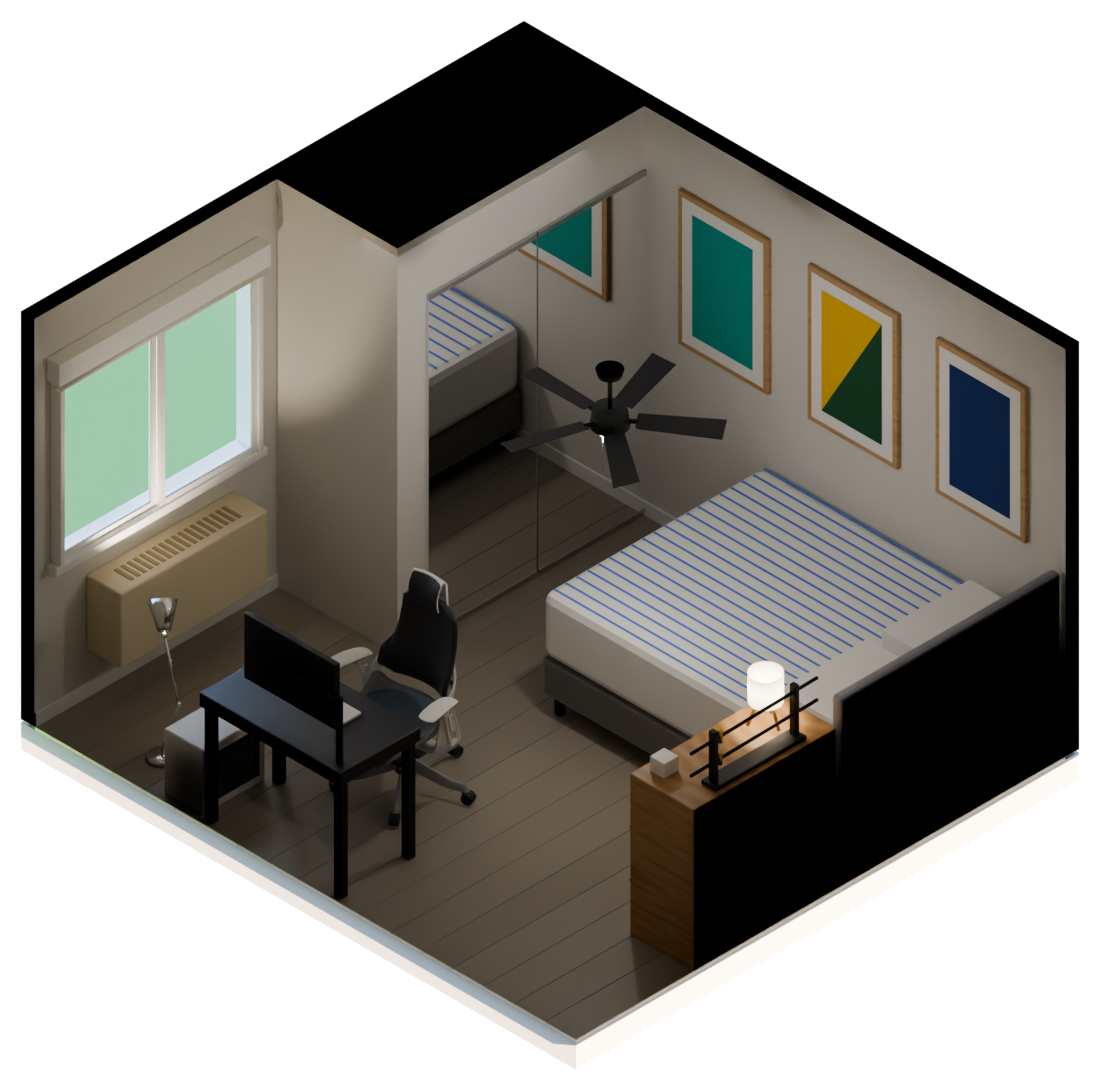
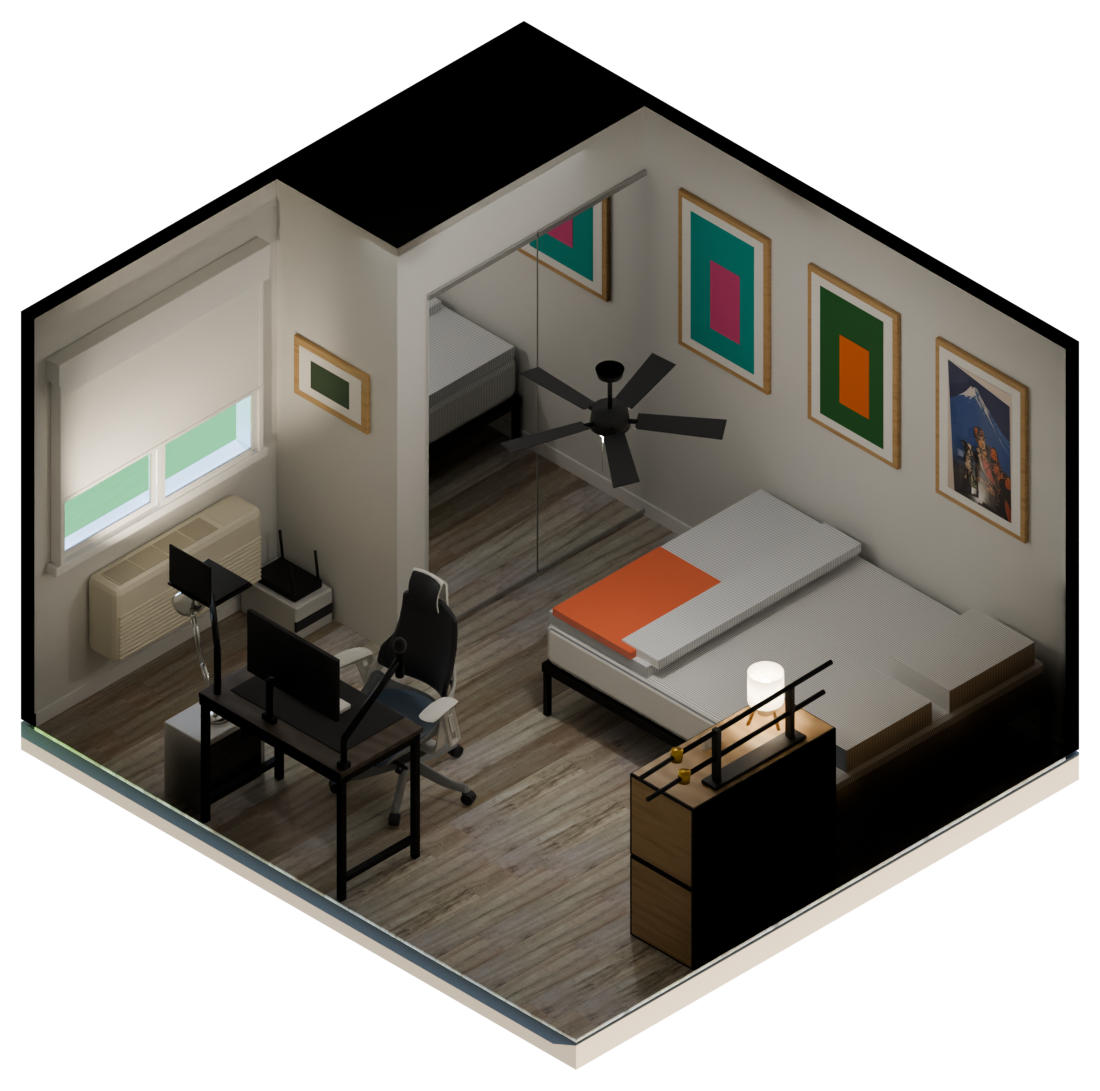
Room Coach render: furniture from Piotr's photos, real floor texture, FORSÅ on the PC

diff --git a/_room/render/build_scene.py b/_room/render/build_scene.py
@@ -35,7 +35,7 @@ BLEND = arg("blend")
 # ---- room constants (core.js) ----
 W, D, DM, NX, H, T = 3.33, 3.685, 2.865, 1.65, 2.4, 0.09
 WX0, WX1, WY0, WY1 = 0.14, 1.46, 0.92, 2.0
-AIM, JOINT = (0.8, 1.46, D), (0.3, 0.68, 3.1)
+AIM, JOINT = (0.8, 1.46, D), (0.27, 0.92, 2.88)  # FORSÅ stands on the PC (photos, 2026-11-17)
 MINI = (1.56, 0.95, 0.27)
 FAN = (1.665, 2.1, 1.435)
 
@@ -127,7 +127,7 @@ def planks(name, base="#a89f93", dark="#8a8275", rough=0.42):
     return m
 
 M = {
-    "wall": add_noise_bump(material("wall", "#e4e1db", 0.92), 80, 0.02),
+    "wall": add_noise_bump(material("wall", "#e7e7e3", 0.92), 80, 0.02),
     "trim": material("trim", "#f4f4f2", 0.35),
     "floor": planks("floor"),
     "desk_top": material("desk_top", "#1b1b1e", 0.42),
@@ -145,21 +145,63 @@ M = {
     "nickel": material("nickel", "#d8d9d6", 0.16, 1.0),
     "black_matte": material("black_matte", "#141416", 0.55),
     "black_metal": material("black_metal", "#1a1a1c", 0.4, 0.8),
-    "ptac": material("ptac", "#e3d6b8", 0.55),
-    "ptac_grille": material("ptac_grille", "#a99c7e", 0.6),
+    "ptac": material("ptac", "#e7e1cf", 0.5),
+    "ptac_grille": material("ptac_grille", "#bdb6a3", 0.6),
     "mirror": material("mirror", "#ffffff", 0.02, 1.0),
     "mirror_frame": material("mirror_frame", "#c8c8c8", 0.3, 1.0),
     "frame_wood": wood("frame_wood", "#d9b98a", "#b89466", 10.0, 0.5),
     "mat_paper": material("mat_paper", "#f7f5f0", 0.9),
     "glass": material("glass", "#ffffff", 0.0, **{"Transmission Weight": 1.0, "IOR": 1.5}),
-    "blind": material("blind", "#e6e2d8", 0.95, **{"Sheen Weight": 0.4}),
+    "blind": material("blind", "#f2f1ec", 0.95, **{"Sheen Weight": 0.4}),
     "sword_blade": material("sword_blade", "#2b2b30", 0.25, 0.9),
     "gold": material("gold", "#c9a44a", 0.3, 1.0),
     "grass": material("grass", "#4f8a3f", 0.8),
-    "slab": material("slab", "#2a2826", 1.0),
+    "desk_wood": wood("desk_wood", "#6e6156", "#4b4239", 7.0, 0.55),
+    "desk_mat": material("desk_mat", "#141416", 0.95, **{"Sheen Weight": 0.3}),
+    "oak": wood("oak", "#c9ab84", "#a88b65", 6.0, 0.45),
+    "black_frame": material("black_frame", "#18181a", 0.45, 0.6),
+    "fleece": material("fleece", "#e2602a", 0.95, **{"Sheen Weight": 1.0}),
+    "printer_grey": material("printer_grey", "#cfd0ce", 0.45),
+    "printer_dark": material("printer_dark", "#3b3c3f", 0.45),
+    "laptop": material("laptop", "#2b2c2f", 0.35, 0.8),
+    "photo_print": material("photo_print", "#3c4a35", 0.6),
+    "slab": material("slab", "#151414", 1.0, **{"Specular IOR Level": 0.0}),
 }
 for name, hexc in (("art_teal", "#1aa39a"), ("art_yellow", "#f2c230"), ("art_green", "#1e5a3a"), ("art_navy", "#1b3a7a")):
     M[name] = material(name, hexc, 0.85)
+
+def image_material(name, path, rough=0.5, uv=True):
+    m = material(name, "#ffffff", rough)
+    nt = m.node_tree
+    tex = nt.nodes.new("ShaderNodeTexImage"); tex.image = bpy.data.images.load(path)
+    if uv:
+        nt.links.new(nt.nodes.new("ShaderNodeUVMap").outputs["UV"], tex.inputs["Vector"])
+    nt.links.new(tex.outputs["Color"], nt.nodes["Principled BSDF"].inputs["Base Color"])
+    return m, tex
+
+import os
+HERE = os.path.dirname(os.path.abspath(__file__))
+M["floor_photo"], _ft = image_material("floor_photo", os.path.join(HERE, "tex", "floor_planks.jpg"), 0.4)
+_ft.extension = "REPEAT"
+M["poster_fuji"], _ = image_material("poster_fuji", os.path.join(HERE, "tex", "poster_fuji.jpg"), 0.6)
+
+def stripes(name, base, line, period=0.012, width=0.25, axis="Y"):
+    """Pinstripe fabric: thin lines every `period` metres along one Blender axis."""
+    m = material(name, base, 0.9, **{"Sheen Weight": 0.8})
+    nt = m.node_tree
+    coord = nt.nodes.new("ShaderNodeTexCoord"); sep = nt.nodes.new("ShaderNodeSeparateXYZ")
+    nt.links.new(coord.outputs["Object"], sep.inputs["Vector"])
+    frac = nt.nodes.new("ShaderNodeMath"); frac.operation = "WRAP"; frac.inputs[1].default_value = 0; frac.inputs[2].default_value = period
+    nt.links.new(sep.outputs["X" if axis == "X" else "Y"], frac.inputs[0])
+    lt = nt.nodes.new("ShaderNodeMath"); lt.operation = "LESS_THAN"; lt.inputs[1].default_value = period * width
+    nt.links.new(frac.outputs[0], lt.inputs[0])
+    mix = nt.nodes.new("ShaderNodeMix"); mix.data_type = "RGBA"
+    mix.inputs[6].default_value = hexcol(base); mix.inputs[7].default_value = hexcol(line)
+    nt.links.new(lt.outputs[0], mix.inputs[0]); nt.links.new(mix.outputs[2], nt.nodes["Principled BSDF"].inputs["Base Color"])
+    return m
+
+M["sheet"] = stripes("sheet", "#f1f0ed", "#7f8b99", 0.011, 0.3, "X")
+M["duvet_stripe"] = stripes("duvet_stripe", "#c9ced6", "#f2f2f0", 0.016, 0.35, "X")
 
 # The lamp shades: fabric that glows when lit from inside.
 def shade_material(name, color):
@@ -214,13 +256,27 @@ def cylinder(p0, p1, r0, r1=None, mat=None, name="cyl", verts=32, cap=True, coll
     return link(obj, coll)
 
 # ---- shell: floor, walls with the window, closet with mirror doors ----
-for k, z0 in enumerate([i * 0.21 for i in range(int(D / 0.21) + 1)]):
-    z1 = min(D, z0 + 0.21)
-    if z1 <= z0:
+def plank(x0, x1, z0, z1, strip, off):
+    mesh = bpy.data.meshes.new("plank")
+    a, b = B(x0, -0.02, z0), B(x1, 0, z1)
+    verts = [(a.x, a.y, b.z), (b.x, a.y, b.z), (b.x, b.y, b.z), (a.x, b.y, b.z), (a.x, a.y, a.z), (b.x, a.y, a.z), (b.x, b.y, a.z), (a.x, b.y, a.z)]
+    faces = [(0, 1, 2, 3), (4, 7, 6, 5), (0, 4, 5, 1), (1, 5, 6, 2), (2, 6, 7, 3), (3, 7, 4, 0)]
+    mesh.from_pydata(verts, [], faces); mesh.update()
+    uv = mesh.uv_layers.new(name="UVMap")
+    for poly in mesh.polygons:
+        for li in poly.loop_indices:
+            v = mesh.vertices[mesh.loops[li].vertex_index].co
+            # 1 texture width = 1.02 m of board; v picks the strip (0..2) in the stacked atlas
+            uv.data[li].uv = (v.x / 1.02 + off, (strip + 0.02 + 0.96 * (v.y - a.y) / max(1e-6, b.y - a.y)) / 3)
+    obj = bpy.data.objects.new("plank", mesh); C_ROOM.objects.link(obj); obj.data.materials.append(M["floor_photo"])
+    return obj
+
+PW = 0.19
+for k in range(int(D / PW) + 1):
+    z0, z1 = k * PW, min(D, (k + 1) * PW)
+    if z1 - z0 < 0.005:
         continue
-    xe = W if z0 < DM else NX
-    plank = box(0, xe, -0.02, 0, z0 + 0.001, z1 - 0.001, M["floor"], "plank", bevel=0.0015)
-    plank["tone"] = random.random()
+    plank(0, W if z0 < DM else NX, z0 + 0.0008, z1 - 0.0008, random.randrange(3), random.random() * 3)
 box(0, W + T, -0.18, -0.02, 0, D + T, M["slab"], "slab", bevel=0)
 
 # Window wall (z = D), built around the opening.
@@ -248,8 +304,13 @@ for a, b, z in ((WX0, wm, D - 0.02), (wm, WX1, D - 0.045)):
     for (x0, x1, y0, y1) in ((a, b, WY0, WY0 + 0.035), (a, b, WY1 - 0.035, WY1), (a, a + 0.035, WY0, WY1), (b - 0.035, b, WY0, WY1)):
         box(x0, x1, y0, y1, z - 0.012, z + 0.012, M["trim"], "sash", bevel=0.002)
     box(a + 0.035, b - 0.035, WY0 + 0.035, WY1 - 0.035, z - 0.003, z + 0.003, M["glass"], "pane", bevel=0)
-# Roller blind, rolled up under the header.
-cylinder((WX0 - 0.04, WY1 - 0.02, D - 0.06), (WX1 + 0.04, WY1 - 0.02, D - 0.06), 0.03, mat=M["blind"], name="blind_roll")
+# Roller blind in a white cassette; BLIND_DOWN is how far it is pulled (0 up, 1 down).
+BLIND_DOWN = float(arg("blind", 0.6))
+box(WX0 - 0.05, WX1 + 0.05, WY1 - 0.07, WY1 + 0.005, D - 0.09, D - 0.035, M["trim"], "blind_cassette", bevel=0.004)
+if BLIND_DOWN > 0.01:
+    yb = WY1 - 0.07 - BLIND_DOWN * (WY1 - WY0 - 0.04)
+    box(WX0 - 0.03, WX1 + 0.03, yb, WY1 - 0.07, D - 0.068, D - 0.064, M["blind"], "blind_fabric", bevel=0)
+    box(WX0 - 0.03, WX1 + 0.03, yb - 0.02, yb, D - 0.072, D - 0.060, M["trim"], "blind_bar", bevel=0.002)
 # Outside: lawn, so the window shows something like the real view.
 hidden_from_camera(box(-3, 5, -0.4, -0.3, D + T, D + 8, M["grass"], "lawn", bevel=0))
 
@@ -259,49 +320,131 @@ for x0, x1 in ((1.85, 2.585), (2.595, W)):
     box(x0, x1, 0.02, 0.04, DM - 0.016, DM, M["mirror_frame"], "mirror_track", bevel=0.001)
     box(x0, x1, 2.0, 2.03, DM - 0.016, DM, M["mirror_frame"], "mirror_track", bevel=0.001)
 
-# ---- heat/AC unit under the window ----
-box(0.35, 1.35, 0.28, 0.72, D - 0.24, D, M["ptac"], "ptac", bevel=0.01)
-for i in range(18):
-    x = 0.47 + i * 0.043
-    box(x, x + 0.022, 0.718, 0.724, D - 0.19, D - 0.07, M["ptac_grille"], "ptac_slat", bevel=0)
+# ---- heat/AC unit: GE Zoneline, cream, louvred front, vent grille and control door on top ----
+PX0, PX1, PY0, PY1, PD = 0.35, 1.35, 0.28, 0.72, D - 0.21
+box(PX0, PX1, PY0, PY1, PD, D, M["ptac"], "ptac", bevel=0.035)
+for i in range(11):
+    y = PY0 + 0.03 + i * 0.024
+    box(PX0 + 0.02, PX1 - 0.02, y, y + 0.012, PD - 0.006, PD + 0.004, M["ptac"], "ptac_louvre", bevel=0.003)
+box(PX0 + 0.05, PX0 + 0.72, PY1 - 0.004, PY1 + 0.002, PD + 0.03, D - 0.05, M["ptac_grille"], "ptac_vent", bevel=0)
+for i in range(4):
+    x = PX0 + 0.05 + i * 0.17
+    box(x, x + 0.006, PY1, PY1 + 0.004, PD + 0.03, D - 0.05, M["ptac"], "ptac_vent_rib", bevel=0)
+box(PX0 + 0.76, PX1 - 0.05, PY1 - 0.003, PY1 + 0.003, PD + 0.03, D - 0.05, M["ptac"], "ptac_door", bevel=0.004)
 
-# ---- desk, monitor, keyboard, PC ----
-for lx, lz in ((0.02, 2.5), (0.48, 2.5), (0.02, 1.62), (0.48, 1.62)):
-    box(lx, lx + 0.05, 0, 0.68, lz, lz + 0.05, M["desk_leg"], "desk_leg")
-box(0, 0.55, 0.68, 0.76, 1.605, 2.565, M["desk_top"], "desk_top", bevel=0.006)
-box(0.30, 0.37, 0.76, 0.785, 2.36, 2.42, M["white_plastic"], "mouse", bevel=0.01)
-box(0.28, 0.42, 0.76, 0.778, 1.88, 2.26, M["white_plastic"], "keyboard", bevel=0.004)
-box(0.10, 0.135, 0.9, 1.28, 1.74, 2.36, M["black_matte"], "monitor", bevel=0.004)
-box(0.135, 0.137, 0.915, 1.265, 1.755, 2.345, M["screen"], "screen", bevel=0)
-cylinder((0.07, 0.76, 1.68), (0.07, 1.14, 1.68), 0.018, mat=M["black_metal"], name="monitor_post")
-cylinder((0.05, 1.12, 1.68), (0.10, 1.09, 2.05), 0.012, mat=M["black_metal"], name="monitor_arm")
-box(0.05, 0.47, 0, 0.38, 2.585, 2.855, M["white_plastic"], "pc", bevel=0.008)
-box(0.09, 0.43, 0.05, 0.33, 2.583, 2.586, M["pc_glass"], "pc_glass", bevel=0)
+# ---- desk: rustic wood top on a black metal frame, black desk mat ----
+for lx, lz in ((0.01, 2.53), (0.51, 2.53), (0.01, 1.605), (0.51, 1.605)):
+    box(lx, lx + 0.035, 0, 0.73, lz, lz + 0.035, M["black_frame"], "desk_leg", bevel=0.003)
+for lz in (1.605, 2.53):
+    box(0.01, 0.545, 0.1, 0.13, lz, lz + 0.035, M["black_frame"], "desk_rail", bevel=0.002)
+    box(0.01, 0.545, 0.69, 0.73, lz, lz + 0.035, M["black_frame"], "desk_rail", bevel=0.002)
+box(0.0, 0.03, 0.69, 0.73, 1.605, 2.565, M["black_frame"], "desk_rail", bevel=0.002)
+box(0, 0.56, 0.73, 0.76, 1.6, 2.57, M["desk_wood"], "desk_top", bevel=0.004)
+box(0.12, 0.55, 0.76, 0.764, 1.72, 2.47, M["desk_mat"], "desk_mat", bevel=0.002)
+box(0.30, 0.42, 0.764, 0.79, 1.95, 2.28, M["white_plastic"], "keyboard", bevel=0.006)
+box(0.305, 0.41, 0.79, 0.794, 1.96, 2.27, M["mat_paper"], "keycaps", bevel=0.002)
+# headphones: two cups and a band, lying on the mat
+for zc in (2.33, 2.43):
+    cylinder((0.44, 0.764, zc), (0.44, 0.80, zc), 0.045, mat=M["white_plastic"], name="ear_cup", verts=24)
+cylinder((0.40, 0.79, 2.33), (0.40, 0.79, 2.43), 0.012, mat=M["white_plastic"], name="headband", verts=12)
+# monitor (MSI 27") on a gas-spring arm clamped at the back edge
+box(0.06, 0.09, 0.68, 0.79, 2.12, 2.20, M["black_frame"], "monitor_clamp", bevel=0.003)
+cylinder((0.075, 0.76, 2.16), (0.075, 1.0, 2.16), 0.018, mat=M["black_frame"], name="arm_post")
+cylinder((0.075, 1.0, 2.16), (0.13, 1.02, 2.06), 0.016, mat=M["black_frame"], name="arm_seg")
+box(0.13, 0.155, 0.92, 1.28, 1.76, 2.37, M["black_matte"], "monitor", bevel=0.004)
+box(0.155, 0.157, 0.935, 1.27, 1.772, 2.358, M["screen"], "screen", bevel=0)
+# laptop on a second arm, reaching toward the window
+cylinder((0.06, 0.76, 2.50), (0.06, 1.02, 2.50), 0.018, mat=M["black_frame"], name="laptop_post")
+cylinder((0.06, 1.02, 2.50), (0.30, 1.07, 2.78), 0.016, mat=M["black_frame"], name="laptop_arm")
+box(0.24, 0.52, 1.05, 1.062, 2.72, 3.02, M["black_frame"], "laptop_tray", bevel=0.002)
+box(0.25, 0.51, 1.062, 1.075, 2.73, 3.01, M["laptop"], "laptop_base", bevel=0.003)
+box(0.24, 0.252, 1.075, 1.29, 2.73, 3.01, M["laptop"], "laptop_lid", bevel=0.003)
+box(0.252, 0.254, 1.09, 1.28, 2.745, 2.995, M["screen"], "laptop_screen", bevel=0)
+# Elgato boom arm and mic at the door end
+box(0.03, 0.08, 0.68, 0.79, 1.61, 1.66, M["black_frame"], "boom_clamp", bevel=0.003)
+cylinder((0.055, 0.79, 1.635), (0.055, 0.92, 1.635), 0.016, mat=M["black_frame"], name="boom_post")
+cylinder((0.055, 0.92, 1.635), (0.42, 1.22, 1.62), 0.018, mat=M["black_frame"], name="boom")
+cylinder((0.42, 1.12, 1.62), (0.42, 1.27, 1.62), 0.022, mat=M["black_metal"], name="mic")
+bpy.ops.mesh.primitive_uv_sphere_add(radius=0.034, location=B(0.42, 1.30, 1.62)); _o = link(bpy.context.active_object); _o.data.materials.append(M["desk_mat"]); _o.scale.z = 1.25
 
-# ---- bed ----
-box(1.80, 3.30, 0.12, 0.34, 0.065, 2.035, M["bed_frame"], "bed_base", bevel=0.02)
-for (x, z) in ((1.84, 0.1), (3.22, 0.1), (1.84, 1.95), (3.22, 1.95)):
-    box(x, x + 0.04, 0, 0.12, z, z + 0.04, M["black_matte"], "bed_foot")
-duvet = box(1.80, 3.30, 0.34, 0.72, 0.065, 2.035, M["duvet"], "mattress", bevel=0.05)
-for i in range(int(1.5 / 0.075)):
-    x = 1.85 + i * 0.075
-    box(x, x + 0.012, 0.719, 0.723, 0.1, 2.0, M["stripe"], "stripe", bevel=0)
-for px in (1.9, 2.6):
-    p = box(px, px + 0.6, 0.72, 0.85, 0.12, 0.52, M["pillow"], "pillow", bevel=0.06)
-box(1.80, 3.30, 0.12, 1.1, 0, 0.065, M["headboard"], "headboard", bevel=0.02)
+# ---- PC: white case, perforated top, glass side toward the desk ----
+PCY = 0.42
+box(0.05, 0.47, 0.0, PCY, 2.585, 2.855, M["white_plastic"], "pc", bevel=0.006)
+box(0.08, 0.44, 0.04, PCY - 0.03, 2.583, 2.586, M["pc_glass"], "pc_glass", bevel=0)
+box(0.40, 0.47, PCY - 0.004, PCY + 0.001, 2.62, 2.82, M["mat_paper"], "pc_io", bevel=0)
 
-# ---- dresser with the little lamp and the sword stand ----
-box(0.80, 1.77, 0, 0.95, 0, 0.435, M["dresser"], "dresser", bevel=0.006)
-for y in (0.32, 0.635):
-    box(0.80, 1.77, y - 0.004, y + 0.004, 0.433, 0.437, M["black_matte"], "drawer_gap", bevel=0)
-box(1.284, 1.287, 0.02, 0.93, 0.433, 0.437, M["black_matte"], "drawer_gap", bevel=0)
-box(0.88, 0.98, 0.95, 1.04, 0.28, 0.38, M["white_plastic"], "white_box", bevel=0.004)
-box(0.98, 1.60, 0.95, 0.975, 0.03, 0.13, M["black_matte"], "sword_base")
-for x in (1.0, 1.55):
+# FORSÅ ("pixar") stands on the PC; its dome points at the window wall.
+base, elbow = (0.26, PCY + 0.02, 2.71), (0.25, PCY + 0.26, 2.79)
+cylinder((0.26, PCY, 2.71), base, 0.075, 0.068, mat=M["nickel"], name="forsa_base", verts=48)
+for a, b in ((base, elbow), (elbow, JOINT)):
+    for dz in (-0.012, 0.012):
+        cylinder((a[0], a[1], a[2] + dz), (b[0], b[1], b[2] + dz), 0.005, mat=M["nickel"], name="forsa_arm", verts=10)
+    cylinder((a[0] + 0.015, a[1], a[2]), (b[0] + 0.015, b[1], b[2]), 0.0035, mat=M["nickel"], name="forsa_spring", verts=8)
+for j in (elbow, JOINT):
+    bpy.ops.mesh.primitive_uv_sphere_add(radius=0.013, location=B(*j)); o = bpy.context.active_object; o.data.materials.append(M["nickel"]); bpy.ops.object.shade_smooth(); link(o)
+bpy.ops.mesh.primitive_uv_sphere_add(radius=0.085, location=B(*tuple(j + d * 0.09 for j, d in zip(JOINT, AIMDIR))), segments=64, ring_count=32)
+shell = link(bpy.context.active_object); shell.name = "forsa_shade"; shell.data.materials.append(M["nickel"]); bpy.ops.object.shade_smooth()
+# cut the dome open on the side it shines from: keep the half behind the bulb
+shell.rotation_mode = "QUATERNION"; shell.rotation_quaternion = B(*AIMDIR).to_track_quat("Z", "Y")
+import bmesh
+_bm = bmesh.new(); _bm.from_mesh(shell.data)
+bmesh.ops.delete(_bm, geom=[v for v in _bm.verts if v.co.z > 0.01], context="VERTS")
+_bm.to_mesh(shell.data); _bm.free()
+shell.modifiers.new("solid", "SOLIDIFY").thickness = 0.0015
+bpy.ops.mesh.primitive_uv_sphere_add(radius=0.03, location=B(*tuple(j + d * 0.1 for j, d in zip(JOINT, AIMDIR))))
+pixar_bulb = link(bpy.context.active_object); pixar_bulb.name = "pixar_bulb"; pixar_bulb.data.materials.append(M["frost"])
+
+# ---- bed: black metal platform frame, oak-plank headboard, striped sheets, orange fleece ----
+BX0, BX1, BZ0, BZ1, RAIL, MTOP = 1.80, 3.30, 0.065, 2.035, 0.30, 0.54
+for x in (BX0, BX1 - 0.03):
+    box(x, x + 0.03, RAIL - 0.05, RAIL, BZ0, BZ1, M["black_frame"], "bed_rail", bevel=0.002)
+box(BX0, BX1, RAIL - 0.05, RAIL, BZ1 - 0.03, BZ1, M["black_frame"], "bed_rail", bevel=0.002)
+for i in range(14):
+    z = BZ0 + 0.06 + i * 0.135
+    box(BX0 + 0.03, BX1 - 0.03, RAIL - 0.02, RAIL, z, z + 0.05, M["black_frame"], "bed_slat", bevel=0)
+for x in (BX0, (BX0 + BX1) / 2 - 0.015, BX1 - 0.03):
+    for z in (BZ0 + 0.02, (BZ0 + BZ1) / 2, BZ1 - 0.04):
+        box(x, x + 0.03, 0, RAIL - 0.05, z, z + 0.03, M["black_frame"], "bed_leg", bevel=0.002)
+box(BX0 + 0.01, BX1 - 0.01, RAIL, MTOP, BZ0 + 0.01, BZ1 - 0.01, M["sheet"], "mattress", bevel=0.04)
+for px0 in (1.95, 2.65):
+    p = box(px0, px0 + 0.58, MTOP - 0.01, MTOP + 0.13, 0.11, 0.52, M["sheet"], "pillow", bevel=0.06)
+# duvet folded back toward the foot, the orange Illinois fleece on top of it
+box(BX0 + 0.03, BX1 - 0.03, MTOP - 0.005, MTOP + 0.06, 1.35, BZ1 - 0.02, M["duvet_stripe"], "duvet", bevel=0.03)
+box(BX0 + 0.06, BX1 - 0.06, MTOP + 0.06, MTOP + 0.11, 1.30, 1.55, M["duvet_stripe"], "duvet_fold", bevel=0.025)
+box(BX0 + 0.02, BX0 + 0.75, MTOP + 0.06, MTOP + 0.1, 1.45, 1.98, M["fleece"], "fleece", bevel=0.02)
+# headboard against the door wall: black frame, three oak planks
+HB = 1.02
+# It stands against the cut-away door wall, so like that wall it is hidden from the camera but still shades the bed.
+hb = [box(x, x + 0.03, 0, HB, 0.0, 0.03, M["black_frame"], "hb_post", bevel=0.002) for x in (BX0, BX1 - 0.03)]
+hb.append(box(BX0, BX1, HB - 0.03, HB, 0.0, 0.03, M["black_frame"], "hb_top", bevel=0.002))
+for i, (y0_, y1_) in enumerate(((0.38, 0.55), (0.585, 0.755), (0.79, 0.96))):
+    hb.append(box(BX0 + 0.03, BX1 - 0.03, y0_, y1_, 0.004, 0.026, M["oak"], "hb_plank", bevel=0.002))
+    hb.append(box(BX0 + 0.03, BX1 - 0.03, y1_, y1_ + 0.035, 0.008, 0.022, M["black_frame"], "hb_bar", bevel=0))
+for o in hb:
+    hidden_from_camera(o)
+
+# ---- dresser: two stacked two-drawer units, light oak with black edges and bar handles ----
+DX0, DX1, DZ1 = 0.80, 1.77, 0.435
+for y0_, y1_ in ((0.0, 0.47), (0.475, 0.95)):
+    box(DX0, DX1, y0_, y1_, 0, DZ1, M["black_frame"], "dresser_carcass", bevel=0.004)
+    box(DX0 + 0.015, DX1 - 0.015, y0_ + 0.015, y1_ - 0.015, DZ1 - 0.002, DZ1 + 0.004, M["oak"], "drawer_front", bevel=0.002)
+    box(DX0 - 0.002, DX0, y0_ + 0.015, y1_ - 0.015, 0.015, DZ1 - 0.015, M["oak"], "dresser_side", bevel=0)
+    mid = (y0_ + y1_) / 2
+    box(DX0 + 0.015, DX1 - 0.015, mid - 0.003, mid + 0.003, DZ1 + 0.003, DZ1 + 0.005, M["black_frame"], "drawer_gap", bevel=0)
+    for yh in (y1_ - 0.05, mid - 0.05):
+        box(1.17, 1.40, yh, yh + 0.018, DZ1 + 0.004, DZ1 + 0.02, M["black_frame"], "drawer_handle", bevel=0.002)
+box(DX0 + 0.01, DX1 - 0.01, 0.95, 0.953, 0.01, DZ1 - 0.01, M["oak"], "dresser_top", bevel=0)
+# CO2 meter, mug
+box(1.18, 1.30, 0.953, 1.03, 0.30, 0.33, M["white_plastic"], "co2_meter", bevel=0.006)
+cylinder((1.62, 0.953, 0.33), (1.62, 1.06, 0.33), 0.04, mat=M["white_plastic"], name="mug", verts=32)
+# sword stand: black two-tier rack with two katanas
+box(0.98, 1.60, 0.953, 0.975, 0.03, 0.13, M["black_matte"], "sword_base")
+for x in (1.02, 1.52):
     box(x, x + 0.03, 0.975, 1.27, 0.06, 0.10, M["black_matte"], "sword_post")
-for y in (1.08, 1.21):
-    cylinder((0.86, y, 0.08), (1.72, y + 0.02, 0.08), 0.009, mat=M["sword_blade"], name="sword")
-    cylinder((1.06, y - 0.03, 0.08), (1.06, y + 0.04, 0.08), 0.012, mat=M["gold"], name="guard")
+for y, L in ((1.10, 0.95), (1.25, 1.05)):
+    cylinder((1.29 - L / 2, y, 0.08), (1.29 + L / 2, y + 0.025, 0.08), 0.013, mat=M["black_metal"], name="saya")
+    cylinder((1.29 - L / 2 - 0.25, y - 0.012, 0.08), (1.29 - L / 2, y, 0.08), 0.012, mat=M["black_matte"], name="tsuka")
+    cylinder((1.29 - L / 2 - 0.004, y - 0.03, 0.08), (1.29 - L / 2 + 0.004, y + 0.03, 0.08), 0.03, mat=M["gold"], name="tsuba", verts=24)
 
 # STORSEGEL table lamp ("little"): three ash legs and a white linen drum.
 cx, y0, cz = MINI
@@ -310,34 +453,35 @@ for a in (0.5, 2.6, 4.7):
 cylinder((cx, y0 + 0.13, cz), (cx, y0 + 0.30, cz), 0.088, mat=M["linen"], name="storsegel_shade", verts=64, cap=False)
 little_bulb = cylinder((cx, y0 + 0.17, cz), (cx, y0 + 0.24, cz), 0.022, mat=M["frost"], name="little_bulb", verts=24)
 
-# FORSÅ work lamp ("pixar"): weighted base, two arms, nickel dome aimed at the window.
-base, elbow = (0.24, 0.028, 3.06), (0.24, 0.38, 2.94)
-cylinder((0.24, 0, 3.06), base, 0.078, 0.07, mat=M["nickel"], name="forsa_base", verts=48)
-for a, b in ((base, elbow), (elbow, JOINT)):
-    cylinder(a, b, 0.007, mat=M["nickel"], name="forsa_arm", verts=12)
-    cylinder(tuple(c + 0.012 for c in a), tuple(c + 0.012 for c in b), 0.003, mat=M["nickel"], name="forsa_spring", verts=8)
-for j in (elbow, JOINT):
-    bpy.ops.mesh.primitive_uv_sphere_add(radius=0.014, location=B(*j)); o = bpy.context.active_object; o.data.materials.append(M["nickel"]); bpy.ops.object.shade_smooth(); link(o)
-dome0 = tuple(j + d * 0.02 for j, d in zip(JOINT, AIMDIR)); dome1 = tuple(j + d * 0.17 for j, d in zip(JOINT, AIMDIR))
-cylinder(dome0, dome1, 0.032, 0.075, mat=M["nickel"], name="forsa_shade", verts=64, cap=False)
-shell = bpy.context.active_object
-shell.modifiers.new("solid", "SOLIDIFY").thickness = 0.0015
-pixar_bulb = bpy.ops.mesh.primitive_uv_sphere_add(radius=0.03, location=B(*tuple(j + d * 0.1 for j, d in zip(JOINT, AIMDIR))))
-pixar_bulb = link(bpy.context.active_object); pixar_bulb.name = "pixar_bulb"; pixar_bulb.data.materials.append(M["frost"])
-
-# ---- posters on the bed wall ----
+# ---- posters on the bed wall: light wood frames, white mats ----
 px = W - 0.002
-for pz, upper, lower in ((2.305, "art_teal", "art_teal"), (1.425, "art_yellow", "art_green"), (0.555, "art_navy", "art_navy")):
+POSTERS = ((2.305, ("#1aa39a", "#d65a8c")), (1.425, ("#2f6b3a", "#e8762b")), (0.555, None))
+for pz, cols in POSTERS:
     box(px - 0.025, px, 1.14, 2.05, pz - 0.305, pz + 0.305, M["frame_wood"], "poster_frame", bevel=0.003)
     box(px - 0.027, px - 0.025, 1.17, 2.02, pz - 0.275, pz + 0.275, M["mat_paper"], "poster_mat", bevel=0)
-    if upper == lower:
-        box(px - 0.029, px - 0.027, 1.24, 1.95, pz - 0.205, pz + 0.205, M[upper], "poster_art", bevel=0)
+    if cols is None:
+        mesh = bpy.data.meshes.new("poster_art")
+        corners = [B(px - 0.029, 1.22, pz + 0.215), B(px - 0.029, 1.22, pz - 0.215), B(px - 0.029, 1.97, pz - 0.215), B(px - 0.029, 1.97, pz + 0.215)]
+        mesh.from_pydata(corners, [], [(0, 1, 2, 3)]); mesh.update()
+        uv = mesh.uv_layers.new(name="UVMap")
+        for li, (u, v) in zip(range(4), ((0, 0), (1, 0), (1, 1), (0, 1))):
+            uv.data[li].uv = (u, v)
+        o = bpy.data.objects.new("poster_fuji", mesh); C_ROOM.objects.link(o); o.data.materials.append(M["poster_fuji"])
     else:
-        # diagonal split: one triangle each colour
-        for mat, tri in ((M[upper], ((1.95, pz + 0.205), (1.95, pz - 0.205), (1.24, pz + 0.205))), (M[lower], ((1.95, pz - 0.205), (1.24, pz - 0.205), (1.24, pz + 0.205)))):
-            mesh = bpy.data.meshes.new("poster_tri")
-            mesh.from_pydata([B(px - 0.029, y, z) for y, z in tri], [], [(0, 1, 2)])
-            o = bpy.data.objects.new("poster_tri", mesh); C_ROOM.objects.link(o); o.data.materials.append(mat)
+        box(px - 0.029, px - 0.027, 1.22, 1.97, pz - 0.215, pz + 0.215, material("poster_bg", cols[0], 0.8), "poster_art", bevel=0)
+        box(px - 0.031, px - 0.029, 1.35, 1.75, pz - 0.12, pz + 0.08, material("poster_fg", cols[1], 0.8), "poster_figure", bevel=0)
+
+# framed photo on the closet's side wall, next to the window
+box(NX - 0.022, NX, 1.22, 1.56, 3.05, 3.55, M["frame_wood"], "photo_frame", bevel=0.003)
+box(NX - 0.024, NX - 0.022, 1.26, 1.52, 3.09, 3.51, M["mat_paper"], "photo_mat", bevel=0)
+box(NX - 0.026, NX - 0.024, 1.31, 1.47, 3.17, 3.43, M["photo_print"], "photo", bevel=0)
+
+# corner between the AC and the closet: printer with the router on it
+box(1.38, 1.63, 0.0, 0.2, D - 0.40, D - 0.02, M["printer_grey"], "printer", bevel=0.01)
+box(1.38, 1.63, 0.06, 0.12, D - 0.402, D - 0.38, M["printer_dark"], "printer_tray", bevel=0.003)
+box(1.41, 1.60, 0.2, 0.245, D - 0.36, D - 0.08, M["black_matte"], "router", bevel=0.006)
+for (ax, az) in ((1.42, D - 0.34), (1.59, D - 0.34), (1.42, D - 0.10), (1.59, D - 0.10)):
+    cylinder((ax, 0.245, az), (ax, 0.40, az + 0.02), 0.007, mat=M["black_matte"], name="antenna", verts=8)
 
 # ---- ceiling fan: Hampton Bay Mena 44", matte black, five blades, LED light kit ----
 fx, fy, fz = FAN

diff --git a/_room/render/README.md b/_room/render/README.md
@@ -12,4 +12,6 @@ app's own orthographic isometric camera, so a render lines up pixel for pixel wi
   summing the layers in a shader, each scaled by its lamp's live RGB. That part isn't built yet.
 - Timing: about 3-5 minutes per 1100 px frame at 128 samples on the M3 Pro.
 
-Still to model from photos: the real floor, wall colour, bedding, dresser, desk, PC, blind, posters, door.
+Modelled from Piotr's photos (2026-11-17): floor (texture cut from his photo, `tex/floor_planks.jpg`), bed (black metal frame, oak-plank headboard, pinstripe sheets, orange fleece), stacked oak/black dresser with the sword rack, desk (rustic wood, black frame, mat, monitor and laptop arms, mic boom), white PC with the FORSÅ on top, GE Zoneline AC, roller blind, printer and router, the blue Fuji poster (`tex/poster_fuji.jpg`). The headboard is hidden from the camera like the cut-away wall it stands against.
+
+Still placeholders: the other two posters, the framed photo, window and AC heights (from core.js, not measured).
